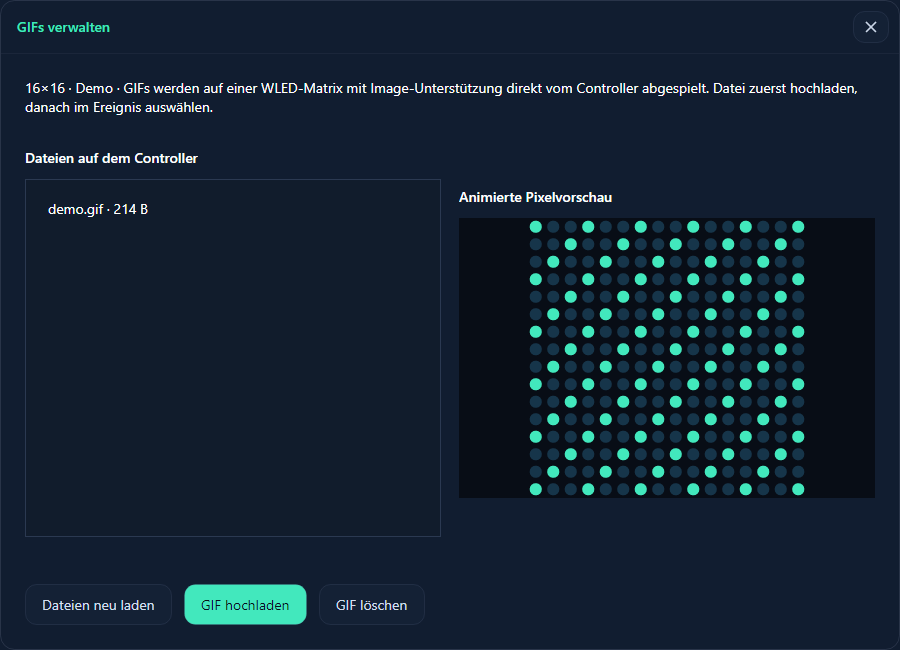
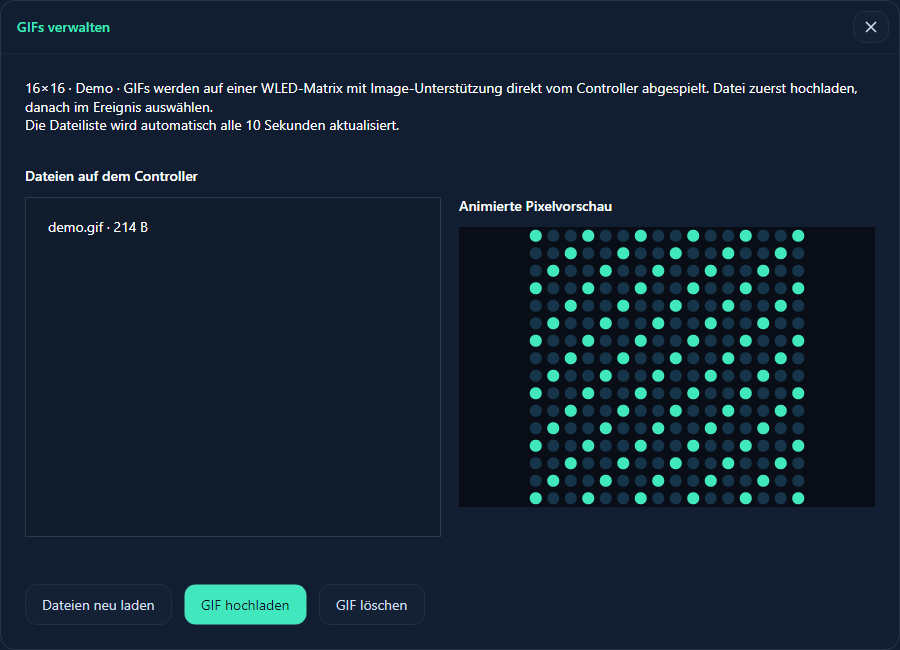
Publish documentation for v0.1.0-beta.60

Changed region(s): [[0.4978, 0.2769, 0.9644, 0.8], [0.0311, 0.1846, 0.4356, 0.2769], [0.0622, 0.3077, 0.1556, 0.3692]]

diff --git a/docs/erweiterungen/WLED.md b/docs/erweiterungen/WLED.md
@@ -82,9 +82,9 @@ These screenshots show the actual interface with **synthetic 16×16 sample data*
 
 ## GIFs auf einer WLED-Matrix
 
-1. Das Gerät einrichten und den Katalog laden. Benötigt wird eine erreichbare Matrix mit **Image**-Effekt, üblicherweise geeignete ESP32-Firmware ab WLED 16. ESP8266 unterstützt diese Wiedergabe nicht.
-2. Beim Gerät **GIFs verwalten** öffnen. Vorhandene Dateien erscheinen mit Name und Dateigröße. Ein Klick zeigt eine animierte Pixelvorschau. **GIF hochladen** lädt eine lokale Datei; **GIF löschen** entfernt die ausgewählte Datei nach Bestätigung sofort vom Controller.
-3. In einer Ereignisregel **GIF vom Controller** wählen und den vollständigen GIF-Dateinamen einschließlich `.gif` auswählen. Der Katalog kann nach manuellen Änderungen außerhalb von Darts-Hub erneut geladen werden. Ein eigener Matrixausschnitt ist weiterhin möglich. Die vorhandene Effektdauer und Rückkehr zu Idle gelten auch für GIFs.
+1. Die Matrix in WLED einrichten und das Gerät in Darts-Hub hinzufügen. Der Katalog wird automatisch geladen. Benötigt wird eine erreichbare Matrix mit **Image**-Effekt, üblicherweise geeignete ESP32-Firmware ab WLED 16. ESP8266 unterstützt diese Wiedergabe nicht.
+2. Beim Gerät **GIFs verwalten** öffnen. Vorhandene Dateien erscheinen mit Name und Dateigröße. Der Katalog wird beim Start geladen und bei aktivierten Geräten alle zehn Sekunden aktualisiert, auch wenn das WLED-Modul ausgeschaltet ist. Geöffnete GIF-Verwaltungen in GUI, TUI und Weboberfläche aktualisieren sich ebenfalls automatisch. Direkt auf dem Controller hinzugefügte oder gelöschte GIFs werden dadurch ohne Neustart erkannt. Eine leere Liste zeigt einen Hinweis; bei Lesefehlern bleiben die zuletzt angezeigten Dateien erhalten. **Dateien neu laden** prüft sofort erneut. Ein Klick zeigt eine animierte Pixelvorschau. **GIF hochladen** lädt eine lokale Datei; **GIF löschen** entfernt die ausgewählte Datei nach Bestätigung sofort vom Controller.
+3. In einer Ereignisregel **GIF vom Controller** wählen und den vollständigen GIF-Dateinamen einschließlich `.gif` auswählen. Änderungen direkt in WLED erscheinen automatisch im Katalog. Ein eigener Matrixausschnitt ist weiterhin möglich. Die vorhandene Effektdauer und Rückkehr zu Idle gelten auch für GIFs.
 4. Beim **Teilen auf HubX** wird die verwendete GIF-Datei direkt aus dem Quellcontroller mitgenommen. Dies gilt auch für Image-Segmente in einem verknüpften Preset. Beim Import über Senden oder Paketdatei werden Dateien und Presets geprüft und die Verweise angepasst. Bei gleichnamigen Dateien lässt sich Überschreiben oder Umbenennen wählen; zwischenzeitlich veränderte Dateien verhindern ein unbemerktes Überschreiben. Auch ein einzelnes HubX-GIF lässt sich ohne neue Ereignisregel auf WLED laden.
 
 GIFs müssen bereits auf die Matrix passen (maximal 128×128 und 4 MiB). Dateinamen sind auf 31 Zeichen beschränkt und erlauben Buchstaben A–Z, Zahlen, Bindestrich, Unterstrich und Punkt. Es erfolgt keine automatische Verkleinerung. Freier Speicher und tatsächliche Wiedergabeleistung hängen vom Controller ab. Die GUI-Vorschau ist begrenzt auf 600 Frames; sehr lange Animationen können diese Vorschaugrenze überschreiten. HubX nutzt für GIF-Vorschauen seine begrenzte Bilddecodierung. WLED spielt die Datei eigenständig ab; Darts-Hub überträgt keine laufenden Einzelbilder.
@@ -93,7 +93,9 @@ GIFs müssen bereits auf die Matrix passen (maximal 128×128 und 4 MiB). Dateina
 
 ## GIF playback on a WLED matrix
 
-Configure the matrix and reload its catalog. A supported ESP32 firmware with the **Image** effect (normally WLED 16+) is required; ESP8266 cannot play these GIFs. Open **Manage GIFs** beside the device to list files, preview a selected animation, upload a local GIF or confirm deletion. Choose **GIF from controller** in an event and select its complete filename. Existing duration and idle-return behavior also apply.
+Configure the matrix in WLED and add the device in Darts-Hub; its catalog loads automatically. A supported ESP32 firmware with the **Image** effect (normally WLED 16+) is required; ESP8266 cannot play these GIFs. Open **Manage GIFs** beside the device to list files, preview a selected animation, upload a local GIF or confirm deletion. Choose **GIF from controller** in an event and select its complete filename. Existing duration and idle-return behavior also apply.
+
+The catalog loads at startup and refreshes every ten seconds for enabled devices, including when the WLED module is switched off. Open GIF libraries in the GUI, TUI and web UI refresh automatically too, so files added or deleted directly on the controller are discovered without restarting. Empty directories show a clear message. Read failures retain the last displayed files, and **Refresh files** retries immediately. Refreshing does not change configured event filenames.
 
 HubX sharing reads referenced GIF files from the source controller, including Image segments inside presets. Direct delivery and package-file imports review conflicts, upload the selected files and update their references. Rename or explicitly overwrite collisions; concurrent file changes invalidate an overwrite decision. Standalone HubX GIFs can upload to WLED without creating an event.
 

diff --git a/changelog.md b/changelog.md
@@ -1,6 +1,6 @@
 # Changelog – Darts-Hub 2.0
 
-## v0.1.0-beta.59
+## v0.1.0-beta.60
 
 <!-- Geplante nächste Version. Bei Bedarf vor dem Release anpassen. / Planned next version; adjust before release if needed. -->
 
@@ -8,13 +8,13 @@
 
 #### Allgemein / General
 
-- Anzeigevariablen, Vorschauen und Spielerpositionen sind auf die sechs Autodarts-Spieler p1–p6 begrenzt.
+- Cricket/Tactics führen keine normalen 0-Punkte-Score-Effekte mehr aus. WLED, Pixelit, AWTRIX-NG und GIF bieten einen eigenen Trigger für Aufnahmen mit 0 Marks; Caller-Ansagen bleiben erhalten.
+
+- Logs liegen immer neben der Anwendung: Konsolendetails bleiben für heute und gestern, Gesamtlogs für sieben Kalendertage erhalten; Modul-Logs bleiben unverändert.
 
 <!-- Kurze Änderungen für Nutzer hier eintragen. -->
 
 #### Autodarts
-
-- Matchstarts ohne Sets werden auch mit leeren Statistikdaten zuverlässig geladen.
 
 <!-- Kurze Änderungen für Nutzer hier eintragen. -->
 
@@ -24,15 +24,7 @@
 
 #### WLED
 
-- Neue Einzelwurf-Ereignisse verwenden DMU, auch bei Matrix-Scores. Der alte Einzelwurf-Punktebereich entfällt in der Auswahl; bestehende Altregeln bleiben erhalten.
-
-- Matrizen zeigen Scores, Einzelwürfe und alle Anzeigevariablen mit zwölf wählbaren oder zufälligen Animationen, auch vollflächig, bewegt sowie explodierend/implodierend. Tempo, Hintergrundstärke und Farben sind einstellbar; das Score-Studio zeigt passende Beispiele.
-
-
-- WLED-GIFs werden über aktuelle und ältere Dateilisten-Abfragen eingelesen. Leere Antworten werden nochmals geprüft; die Konsole hilft bei fehlenden Dateien.
-
-
-<!-- Kurze Änderungen für Nutzer hier eintragen. -->
+- Controller-GIFs werden beim Start und danach automatisch aktualisiert – auch nach Änderungen direkt in WLED. Leere Listen und vorübergehende Verbindungsfehler werden sicher behandelt; eingetragene Ereignis-Dateinamen bleiben erhalten.
 
 #### PixelIt
 
@@ -59,8 +51,6 @@
 <!-- Kurze Änderungen für Nutzer hier eintragen. -->
 
 #### Updates und Installation / Updates and Installation
-
-- Release-Prüfungen passen zu den aktuellen WLED-Einzelwurf-Ereignissen und warten zuverlässig auf vollständige Skriptkonsolen-Ausgaben. Vorlagenprüfungen unterstützen auch getrennte Build-Ausgaben.
 
 <!-- Kurze Änderungen für Nutzer hier eintragen. -->
 
@@ -70,15 +60,15 @@
 
 ### English
 
-#### Allgemein / General
+- Cricket/Tactics no longer run generic zero-point score effects. WLED, Pixelit, AWTRIX-NG and GIF offer a dedicated trigger for zero-mark visits; caller announcements remain unchanged.
 
-- Display variables, previews and player positions are limited to the six Autodarts players p1–p6.
+- Logs always stay beside the application: console details retain today and yesterday, combined logs retain seven calendar days; module logs remain unchanged.
+
+#### Allgemein / General
 
 <!-- Add brief user-facing changes here. -->
 
 #### Autodarts
-
-- Matches without sets load reliably even when statistics are unavailable.
 
 <!-- Add brief user-facing changes here. -->
 
@@ -88,15 +78,7 @@
 
 #### WLED
 
-- New single-dart events use DMU, including matrix scores. The former single-dart score range is removed from selection; existing legacy rules remain intact.
-
-- Matrices display scores, individual darts and all display variables with twelve fixed or random animations, including full-matrix patterns, moving numbers, explosions and implosions. Adjust speed, background strength and colors and try examples in the score studio.
-
-
-- WLED GIFs are read using current and legacy file-list requests. Empty responses are checked again, with console details to investigate missing files.
-
-
-<!-- Add brief user-facing changes here. -->
+- Controller GIFs refresh automatically at startup and after changes made directly in WLED. Empty lists and temporary connection failures are handled safely, while configured event filenames are preserved.
 
 #### PixelIt
 
@@ -123,8 +105,6 @@
 <!-- Add brief user-facing changes here. -->
 
 #### Updates und Installation / Updates and Installation
-
-- Release checks match current WLED single-dart events and reliably wait for complete script-console output. Template checks also support separate build outputs.
 
 <!-- Add brief user-facing changes here. -->
 

diff --git a/docs/CONSOLE_DETAILS.md b/docs/CONSOLE_DETAILS.md
@@ -4,7 +4,7 @@ GUI, TUI and the web interface receive compact console summaries. Complete detai
 
 The runtime keeps at most 5,000 summaries with a 24 MiB estimated managed-data budget, plus an 8 MiB pending-write buffer. A full buffer applies write backpressure instead of dropping details. GUI and TUI histories have a 32 MiB budget; the web history is limited to 2,000 entries and 32 MiB. Detail caches are limited to 4 MiB. These are data budgets, not a limit on total process memory. A large clipboard copy or export temporarily needs memory for its complete output.
 
-The configured log directory contains `console-details/<session>.jsonl` and `<session>.idx`. References combine the session identifier and sequence number; the on-disk index records the exact byte offset. Fresh records are read from the pending buffer until persisted. Old companion files are cleaned up on startup after 31 days. Keep both files together when archiving logs. Existing plain text logs remain available.
+The executable’s `logs` directory contains daily pairs `console-details/<session>_yyyyMMdd.jsonl` and `.idx`. References still combine the session identifier and sequence number; a dense index records byte offsets without allocating empty slots for earlier days. Fresh records are read from the pending buffer until persisted. Only today and yesterday, using the machine’s local calendar dates, are retained. Cleanup runs at startup and during operation, including idle periods. Older whole-session files are automatically split and only retained days are migrated. Missing/expired details are reported explicitly. Module text logs remain unchanged; combined text logs retain seven calendar days. Keep daily pairs together when archiving.
 
 Secrets are redacted before persistence. Device/licensing restrictions are checked again when reading details. Missing or damaged detail files cause an explicit error; a full-detail copy never silently overwrites the clipboard with partial data. Telemetry warnings/errors resolve their full details from the same store.
 
@@ -16,7 +16,7 @@ Secrets are redacted before persistence. Device/licensing restrictions are check
 
 ## Deutsch
 
-Die Details werden bei Bedarf aus den lokalen Protokolldateien geladen. Mehrfachauswahl und vollständiger Export bleiben erhalten. Fehlende Dateien erzeugen eine Fehlermeldung; die Zwischenablage bleibt bei einer fehlgeschlagenen vollständigen Kopie unverändert. Große Kopien und Exporte benötigen vorübergehend Speicher für den gesamten Text. Die Speicherbudgets begrenzen die Konsolendaten, nicht den gesamten Arbeitsspeicher der Anwendung.
+Die Details werden bei Bedarf aus den lokalen Protokolldateien geladen. Tagespaare `console-details/<Sitzung>_yyyyMMdd.jsonl` und `.idx` bleiben nur für heute und gestern erhalten, auch bei mehrtägigen Sitzungen. Bereinigung beim Start und im Betrieb, auch ohne neue Meldungen. Bestehende Sitzungsdateien werden unter Erhalt der noch gültigen Details umgestellt. Gesamtlogs behalten sieben Kalendertage; Modul-Logs bleiben unverändert. Mehrfachauswahl und vollständiger Export bleiben erhalten. Fehlende Dateien erzeugen eine Fehlermeldung; die Zwischenablage bleibt bei einer fehlgeschlagenen vollständigen Kopie unverändert. Große Kopien und Exporte benötigen vorübergehend Speicher für den gesamten Text. Die Speicherbudgets begrenzen die Konsolendaten, nicht den gesamten Arbeitsspeicher der Anwendung.
 
 ## Module diagnostics / Moduldiagnose
 

diff --git a/docs/erweiterungen/EREIGNISSE.md b/docs/erweiterungen/EREIGNISSE.md
@@ -17,6 +17,7 @@ Alle aktuell auswählbaren Regeltypen. Ein Haken bedeutet: Das Modul bietet den 
 | Cricket/Tactics-Mark (`CricketMark`) | Gewertete Marks ohne Abschluss oder Punkte. | ✓ | ✓ | ✓ | ✓ |
 | Cricket/Tactics-Feld abgeschlossen (`CricketClosed`) | Dritte Mark erreicht, ohne Punkte. | ✓ | ✓ | ✓ | ✓ |
 | Cricket/Tactics-Punkte (`CricketScored`) | Punkte erzielt; bei Cut Throat für offene Gegner. | ✓ | ✓ | ✓ | ✓ |
+| Cricket/Tactics: Aufnahme ohne gewertete Treffer (`CricketNoScore`) | Nach dem dritten Dart, wenn die gesamte Aufnahme 0 Marks hat. | ✓ | ✓ | ✓ | ✓ |
 | Cricket/Tactics: nicht gewertet (`CricketNoMark`) | Kein Zielfeld oder bereits für alle geschlossen. | ✓ | ✓ | ✓ | ✓ |
 | Erste Cricket/Tactics-Mark (`CricketOpened`) | Erste Mark auf einem zuvor unberührten Feld. | ✓ | ✓ | ✓ | ✓ |
 | Cricket/Tactics-Feld für alle geschlossen (`CricketClosedAll`) | Letzter Spieler schließt das Feld. | ✓ | ✓ | ✓ | ✓ |
@@ -121,3 +122,13 @@ no reset or separate maintenance command is necessary. Old backups are cleaned o
 restore, and new backups/HubX exports omit unused conditions. Unknown triggers and
 fields are preserved. Existing downloads and published HubX items are not rewritten.
 Typed editor/API models retain their editing defaults; storage removes inactive ones.
+
+## Null-Punkte und No Score / Zero points and No Score
+
+**Deutsch:** In Cricket, Tactics und Hidden Cricket lösen 0 Punkte keine normalen Score-/Scorebereich-Effekte aus (einschließlich des alten WLED-Einzelwurf-Scorebereichs). Bestehende Regeln bleiben gespeichert und gelten in anderen Spielmodi weiterhin, insbesondere X01. Die Caller-Ansagen bleiben unverändert. Der eigene Trigger **Cricket/Tactics: Aufnahme ohne gewertete Treffer** (`CricketNoScore`) reagiert einmal nach dem dritten Dart bei insgesamt **0 Marks**. Gültige Treffer zum Öffnen/Schließen eines Feldes sind kein No Score, auch wenn sie 0 Punkte bringen. `CricketNoMark` bleibt der separate Einzel-Dart-Trigger. Positive Punkte, DMU-/Miss-/Kombinationsregeln und die vorhandenen Cricket-Feldereignisse behalten ihr Verhalten.
+
+GUI/Web/Webapp: In WLED, Pixelit, AWTRIX-NG oder GIF eine Ereignisregel anlegen und den neuen Cricket/Tactics-Trigger wählen. TUI: Modul → Ereignisse → Regel → Trigger `CricketNoScore`; danach Effekt/Anzeige wählen und speichern. Die bestehenden Lizenzregeln gelten auch für diesen Cricket/Tactics-Trigger.
+
+**English:** In Cricket, Tactics and Hidden Cricket, zero points never activate generic score/score-range effects (including the legacy WLED single-dart score range). Existing rules remain stored and continue working in other modes, particularly X01. Caller announcements remain unchanged. **Cricket/Tactics: visit without scoring marks** (`CricketNoScore`) fires once after the third dart when the entire visit has **0 marks**. Valid opening/closing hits do not count as No Score, even when they score zero points. `CricketNoMark` remains the separate per-dart trigger. Positive scores, DMU/miss/combination rules and existing Cricket field events retain their behavior.
+
+GUI/web/webapp: Create a rule in WLED, Pixelit, AWTRIX-NG or GIF and select the new Cricket/Tactics trigger. TUI: module → events → rule → trigger `CricketNoScore`, then choose the effect/display and save. Existing license rules also apply to this Cricket/Tactics trigger.

diff --git a/docs/RUNTIME_CONSOLE.md b/docs/RUNTIME_CONSOLE.md
@@ -13,8 +13,8 @@
    Nur GUI: **Gesamten Puffer speichern** exportiert auch ausgeblendete Meldungen im geladenen Puffer.
 
 ### Dateien und Datenschutz
-- GUI und TUI zeigen den tatsächlichen Logpfad. Standard: `logs` neben der ausführbaren Anwendung.
-- Pro lokalem Kalendertag gibt es ein Gesamtlog `DartsHub_04.log` und je Erweiterung z. B. `Caller/Caller_04.log`. Weitere Starts am selben Tag schreiben in dieselbe Datei. Beim erneuten Erreichen dieses Tages im nächsten Monat wird sie überschrieben. Keine Rotation nach Dateigröße; vorhandene alte Logdateien bleiben erhalten.
+- GUI, TUI und Weboberfläche zeigen den tatsächlichen Logpfad: immer `logs` neben der gestarteten Programmdatei, unabhängig vom Arbeitsverzeichnis. Bei macOS-App-Bundles liegt er neben `DartsHub.app`. Kein Ausweichpfad nach AppData oder `.local`; ein Schreibfehler wird angezeigt. Frühere `DartsHub:LogDirectory`-Vorgaben werden nicht mehr verwendet.
+- Pro lokalem Kalendertag gibt es ein Gesamtlog `DartsHub_04.log` und je Erweiterung z. B. `Caller/Caller_04.log`. Weitere Starts am selben Tag schreiben in dieselbe Datei. Das Gesamtlog bleibt für heute und die sechs vorherigen Kalendertage erhalten. Nur die Moduldateien behalten die bisherige Wiederverwendung im nächsten Monat. Konsolendetails und Indexdateien bleiben für heute und gestern verfügbar. Die Bereinigung läuft beim Start, beim Tageswechsel und auch ohne neue Meldungen spätestens nach einer Minute. Keine Rotation nach Dateigröße. Alte AppData-/`.local`-Ordner werden nicht mehr beschrieben, aber auch nicht automatisch mitsamt möglichen Einstellungen gelöscht.
 - Geheimnisse werden geschwärzt, eigene Texte können dennoch sensible Angaben enthalten.
   **Export vor dem Teilen prüfen.** Vollständige Autodarts-Nachrichten benötigen die passende Lizenz.
 
@@ -31,7 +31,7 @@
    GUI only: **Save entire buffer** also exports hidden messages within the loaded buffer.
 
 ### Files and privacy
-- GUI and TUI show the actual log path. Default: `logs` beside the executable.
-- Each local calendar day has a combined log `DartsHub_04.log` and module logs such as `Caller/Caller_04.log`. Restarts append to the same file. When that day occurs in the next month, the file is overwritten. File size is unlimited; legacy logs are preserved.
+- GUI, TUI and web control show the actual log path: always `logs` beside the launched executable, independently of the working directory. For macOS app bundles it is beside `DartsHub.app`. No AppData or `.local` fallback; write failures are reported. Previous `DartsHub:LogDirectory` overrides are no longer used.
+- Each local calendar day has a combined log `DartsHub_04.log` and module logs such as `Caller/Caller_04.log`. Restarts append to the same file. Combined logs retain today and the preceding six calendar days. Only module logs retain the existing monthly day-slot reuse. Console details and index files retain today and yesterday. Cleanup runs at startup, on date changes and within one minute even when idle. File size remains unlimited. Old AppData/`.local` directories are no longer written, but are not automatically deleted along with any settings they may contain.
 - Secrets are redacted, but your own text may still contain sensitive information.
   **Review exports before sharing.** Full Autodarts messages require the appropriate license.

diff --git a/docs/START_ARGUMENTS.md b/docs/START_ARGUMENTS.md
@@ -91,10 +91,10 @@ IPv4 and IPv6 are supported without a port. This selects HTTP port **5069**, ove
 ## Backend startet nicht / Backend startup failure
 
 Bei „Backend offline“ die Ursache prüfen, bevor Einstellungen zurückgesetzt werden. GUI: **Einstellungen → Anwendung** zeigt bei einem lokalen Backend-Abbruch Ursache und Pfad der Datei `backend-failure.log`; im Autodarts-Bereich erscheint dieselbe Ursache. TUI: `DartsHub --tui` zeigt den Dateipfad bei einem Startfehler. Headless: `DartsHub --headless` zeigt den Fehler im Terminal.
-Die Fehlerdatei liegt im Logordner (normalerweise `logs` im Installationsordner, bei einem Windows-Debugstart `%USERPROFILE%\DartsHub\logs`). Ist dieser nicht beschreibbar, wird der Benutzerordner `%LOCALAPPDATA%\DartsHub\logs` verwendet. Zugangsdaten werden geschwärzt. `--DartsHub:LogDirectory PFAD` setzt einen eigenen Logordner. Bei `bip=` befinden sich Backendfehler auf dem anderen Rechner.
+Die Fehlerdatei liegt immer in `logs` neben der gestarteten Programmdatei (bei macOS neben `DartsHub.app`). Kein Ausweichpfad nach AppData oder `.local`. Alte `--DartsHub:LogDirectory`- und `DartsHub__LogDirectory`-Vorgaben ändern diesen Pfad nicht mehr. Bei fehlenden Schreibrechten wird keine Datei an anderer Stelle erzeugt. Zugangsdaten werden geschwärzt. Bei `bip=` befinden sich Backendfehler auf dem anderen Rechner.
 
 When the GUI shows “Backend offline”, inspect the cause before resetting settings. GUI: **Settings → Application** shows the local backend failure and the path to `backend-failure.log`; the Autodarts area also shows the cause. TUI: `DartsHub --tui` prints the log path on startup failure. Headless: `DartsHub --headless` prints the error in the terminal.
-The file is stored in the log directory (usually `logs` in the installation directory; Windows debug launches use `%USERPROFILE%\DartsHub\logs`). If writing fails, the user directory `%LOCALAPPDATA%\DartsHub\logs` is tried. Credentials are redacted. Set a custom directory with `--DartsHub:LogDirectory PATH`. With `bip=`, backend failures are on the other computer.
+The failure file always resides in `logs` beside the launched executable (beside `DartsHub.app` on macOS). There is no AppData or `.local` fallback. Legacy `--DartsHub:LogDirectory` and `DartsHub__LogDirectory` overrides no longer change the path. Missing write permissions do not create files elsewhere. Credentials are redacted. With `bip=`, backend failures are on the other computer.
 
 
 Die GUI zeigt beim Update-Download sofort eine animierte Fortschrittskarte oberhalb der Release Notes. Sobald die Paketgröße bekannt ist, erscheint der echte Prozentfortschritt. Über Einstellungen → Anwendung → Details lässt sich der Dialog wieder öffnen. In der TUI zeigt der Updatebereich den Vorbereitungsstatus bzw. den Prozentfortschritt. `--update` bleibt der direkte Terminalweg.
